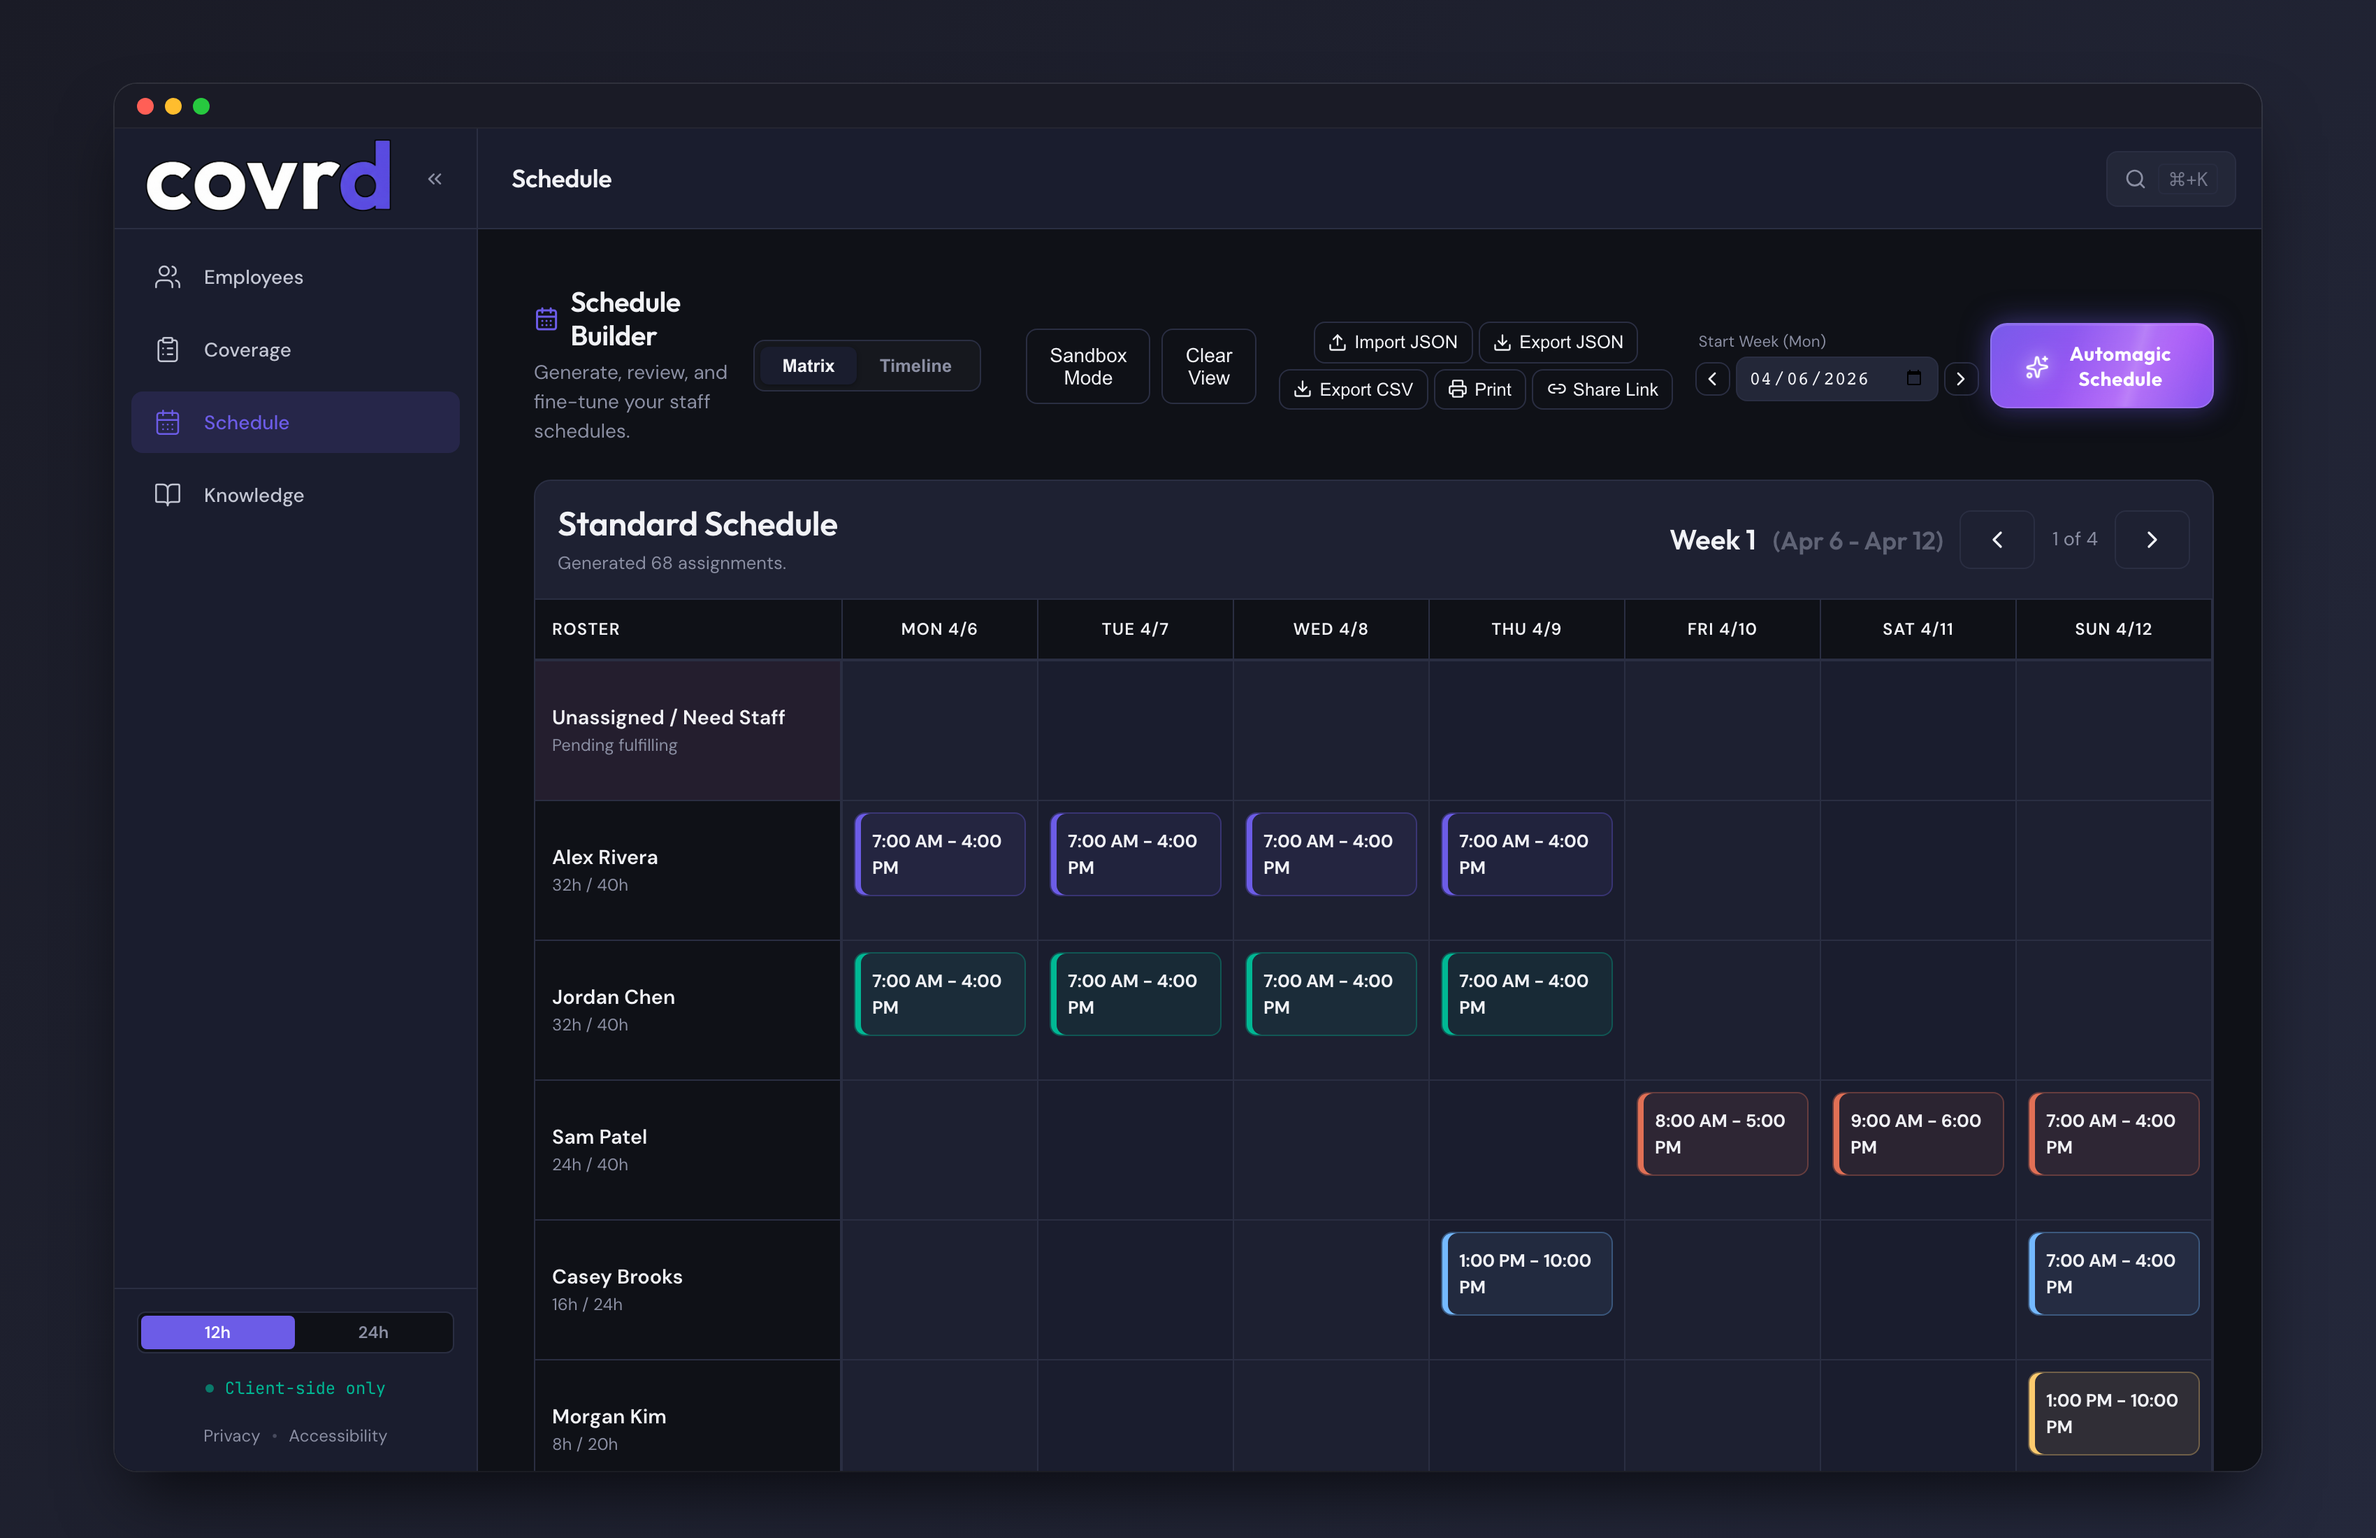
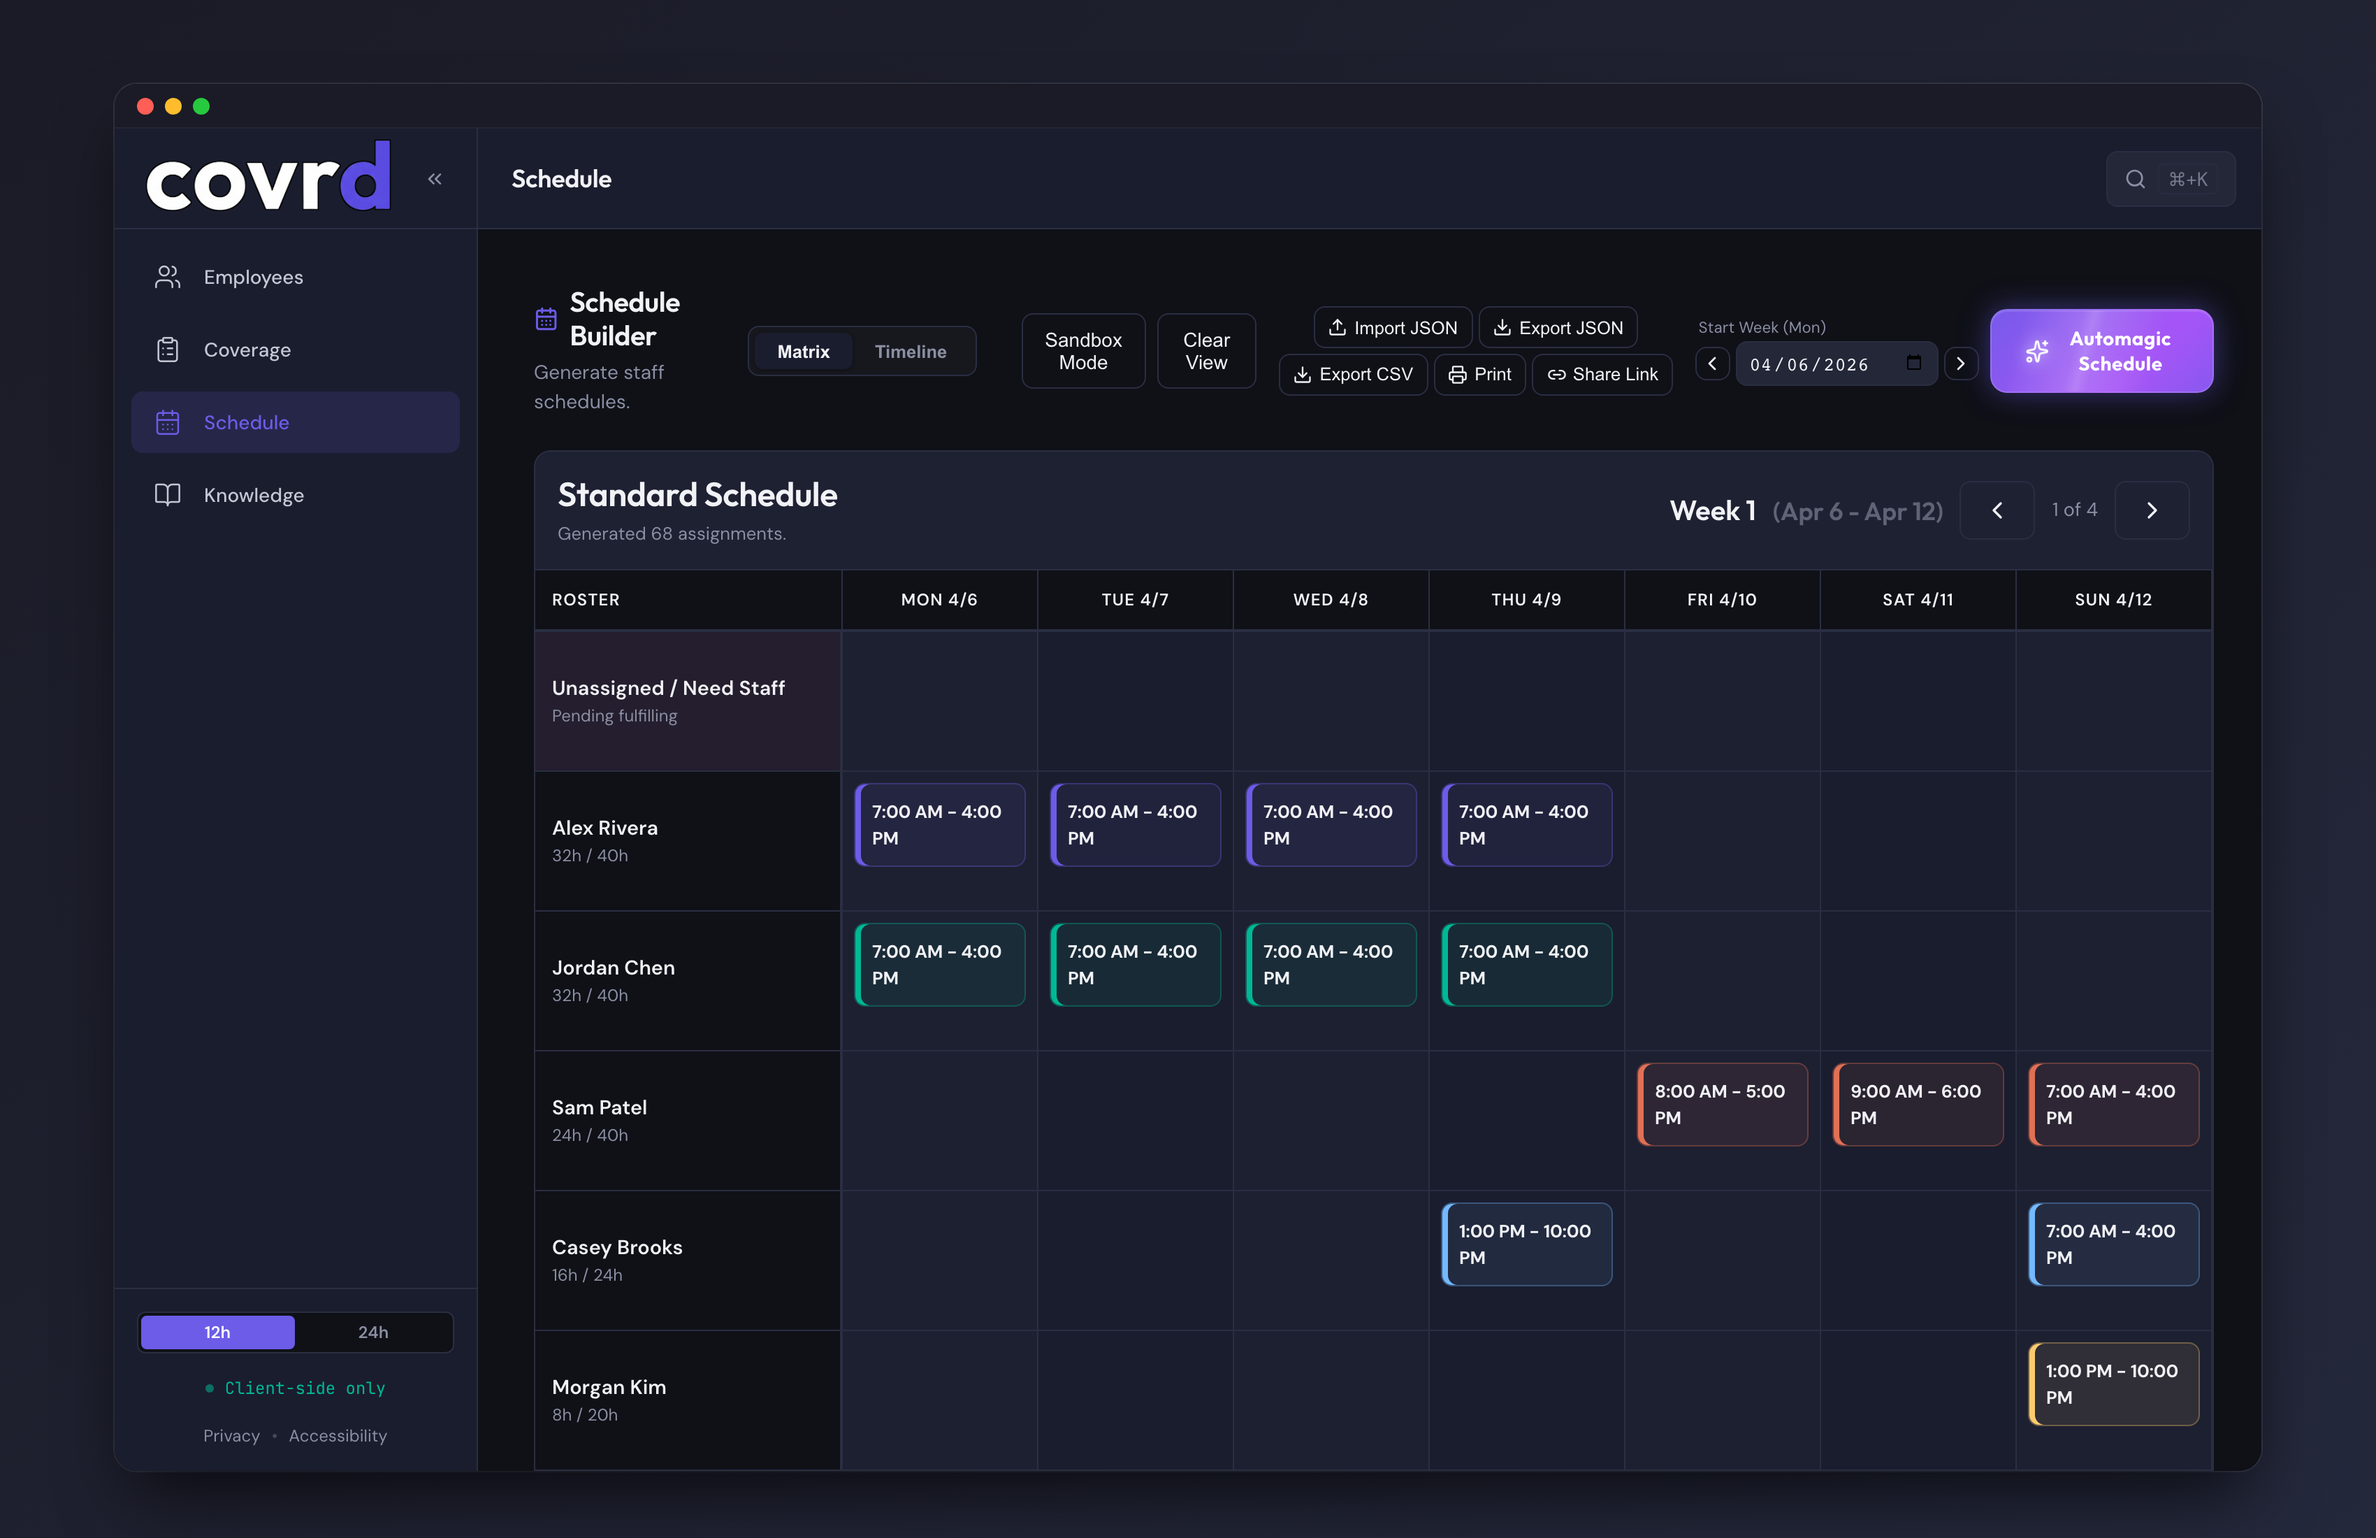
ref: Simplify Schedule Builder tagline to reduce visual cramping on mobile viewports
- Modified ScheduleManager.tsx tagline phrasing.
- Regenerated 16:10 desktop and responsive mobile visual assets.

diff --git a/src/components/schedule/ScheduleManager.tsx b/src/components/schedule/ScheduleManager.tsx
@@ -230,7 +230,7 @@ export function ScheduleManager() {
             <CalendarDays size={20} color="var(--color-accent)" />
             Schedule Builder
           </h2>
-          <p className="sm-subtitle">Generate, review, and fine-tune your staff schedules.</p>
+          <p className="sm-subtitle">Generate staff schedules.</p>
         </div>
         <div className="sm-actions">
           {activeSchedule && (
